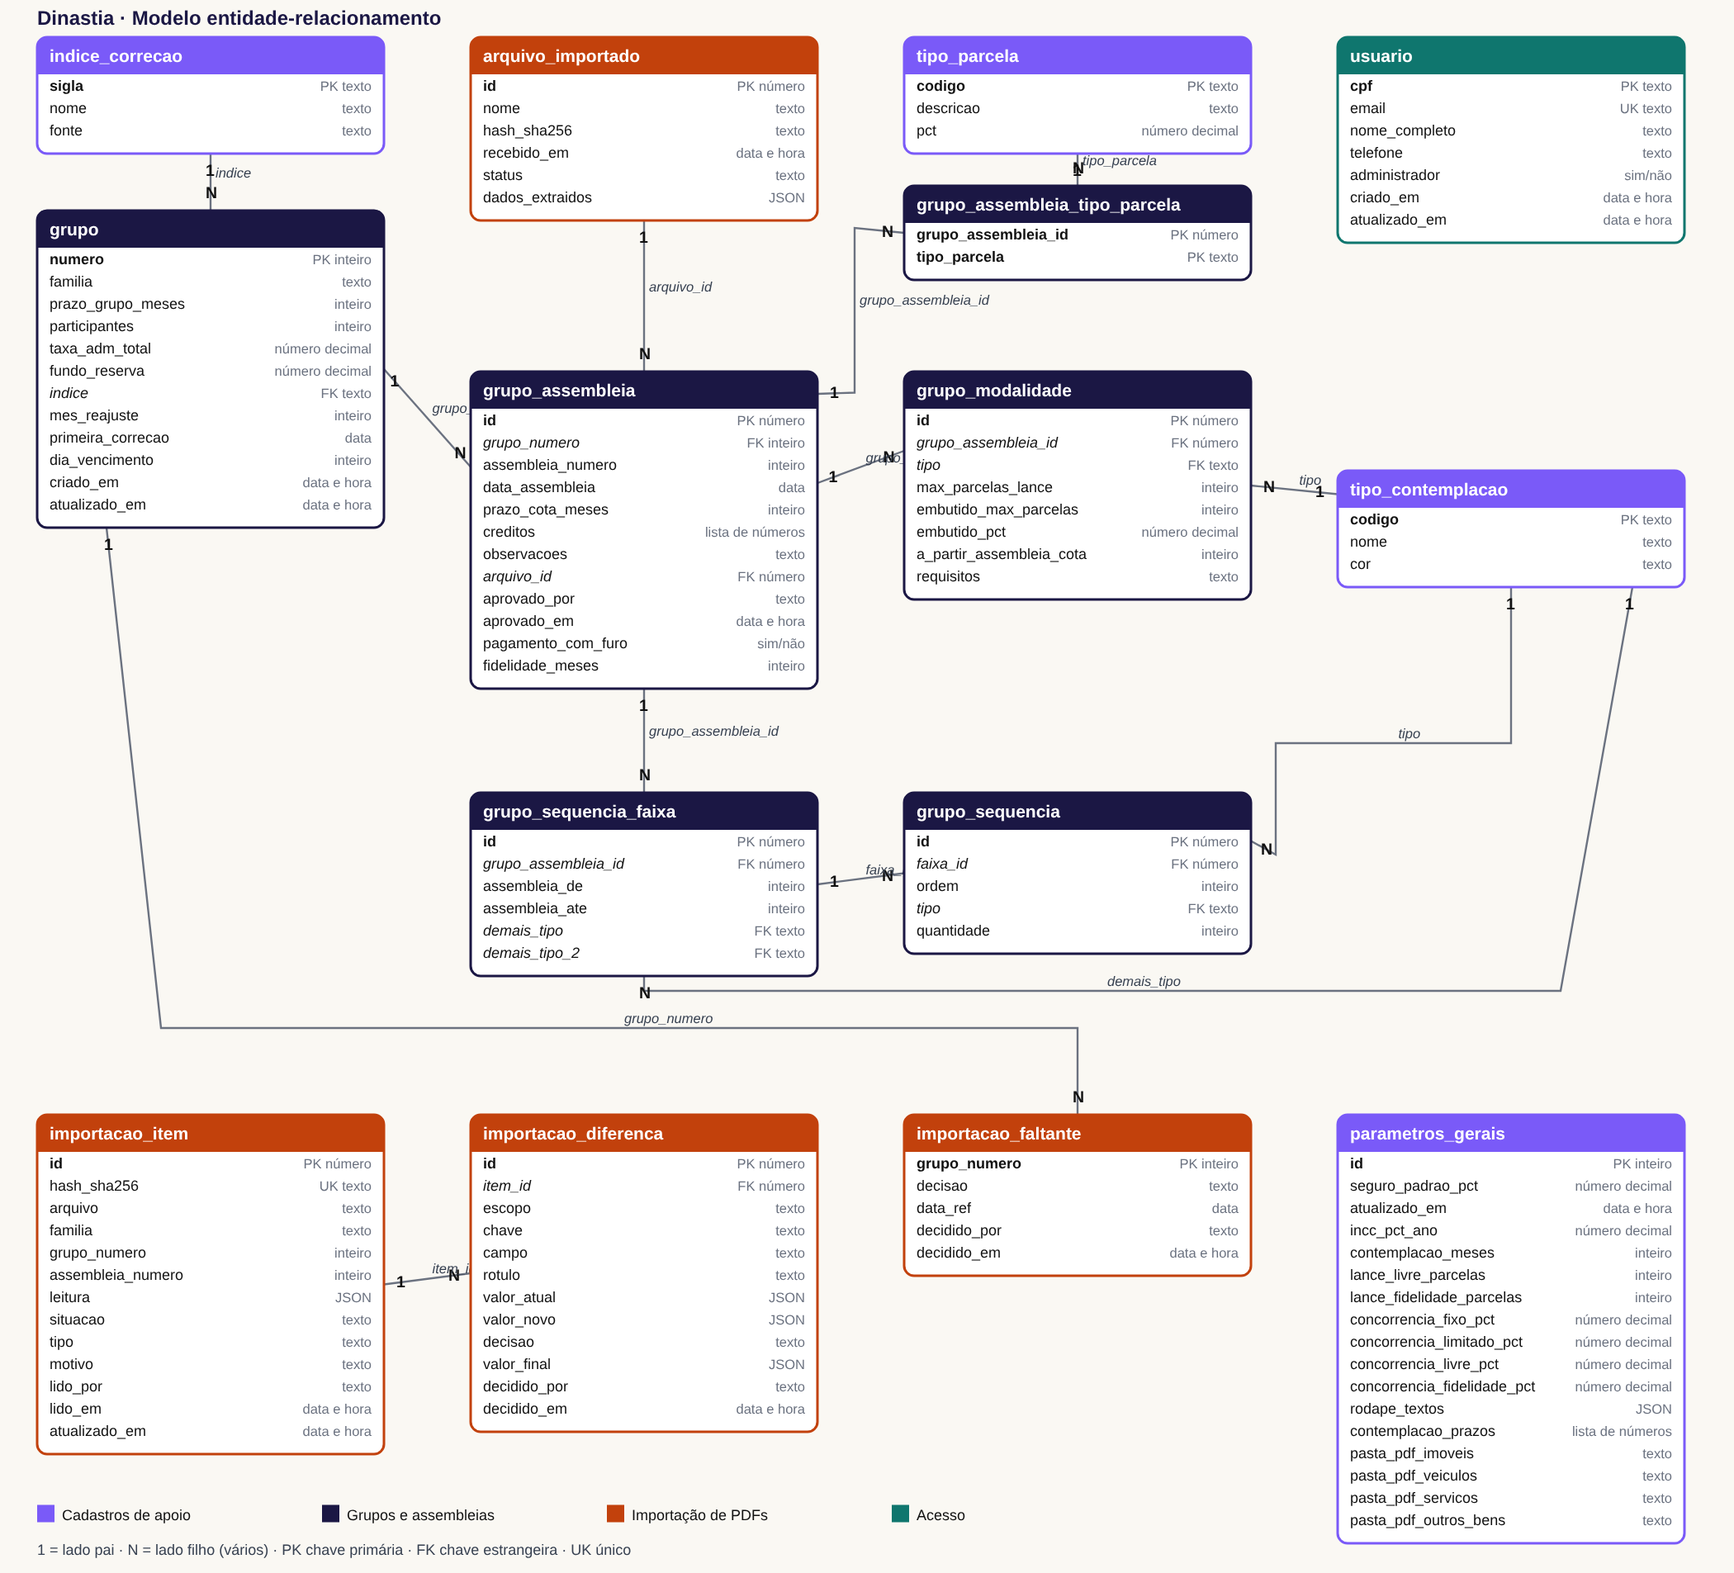
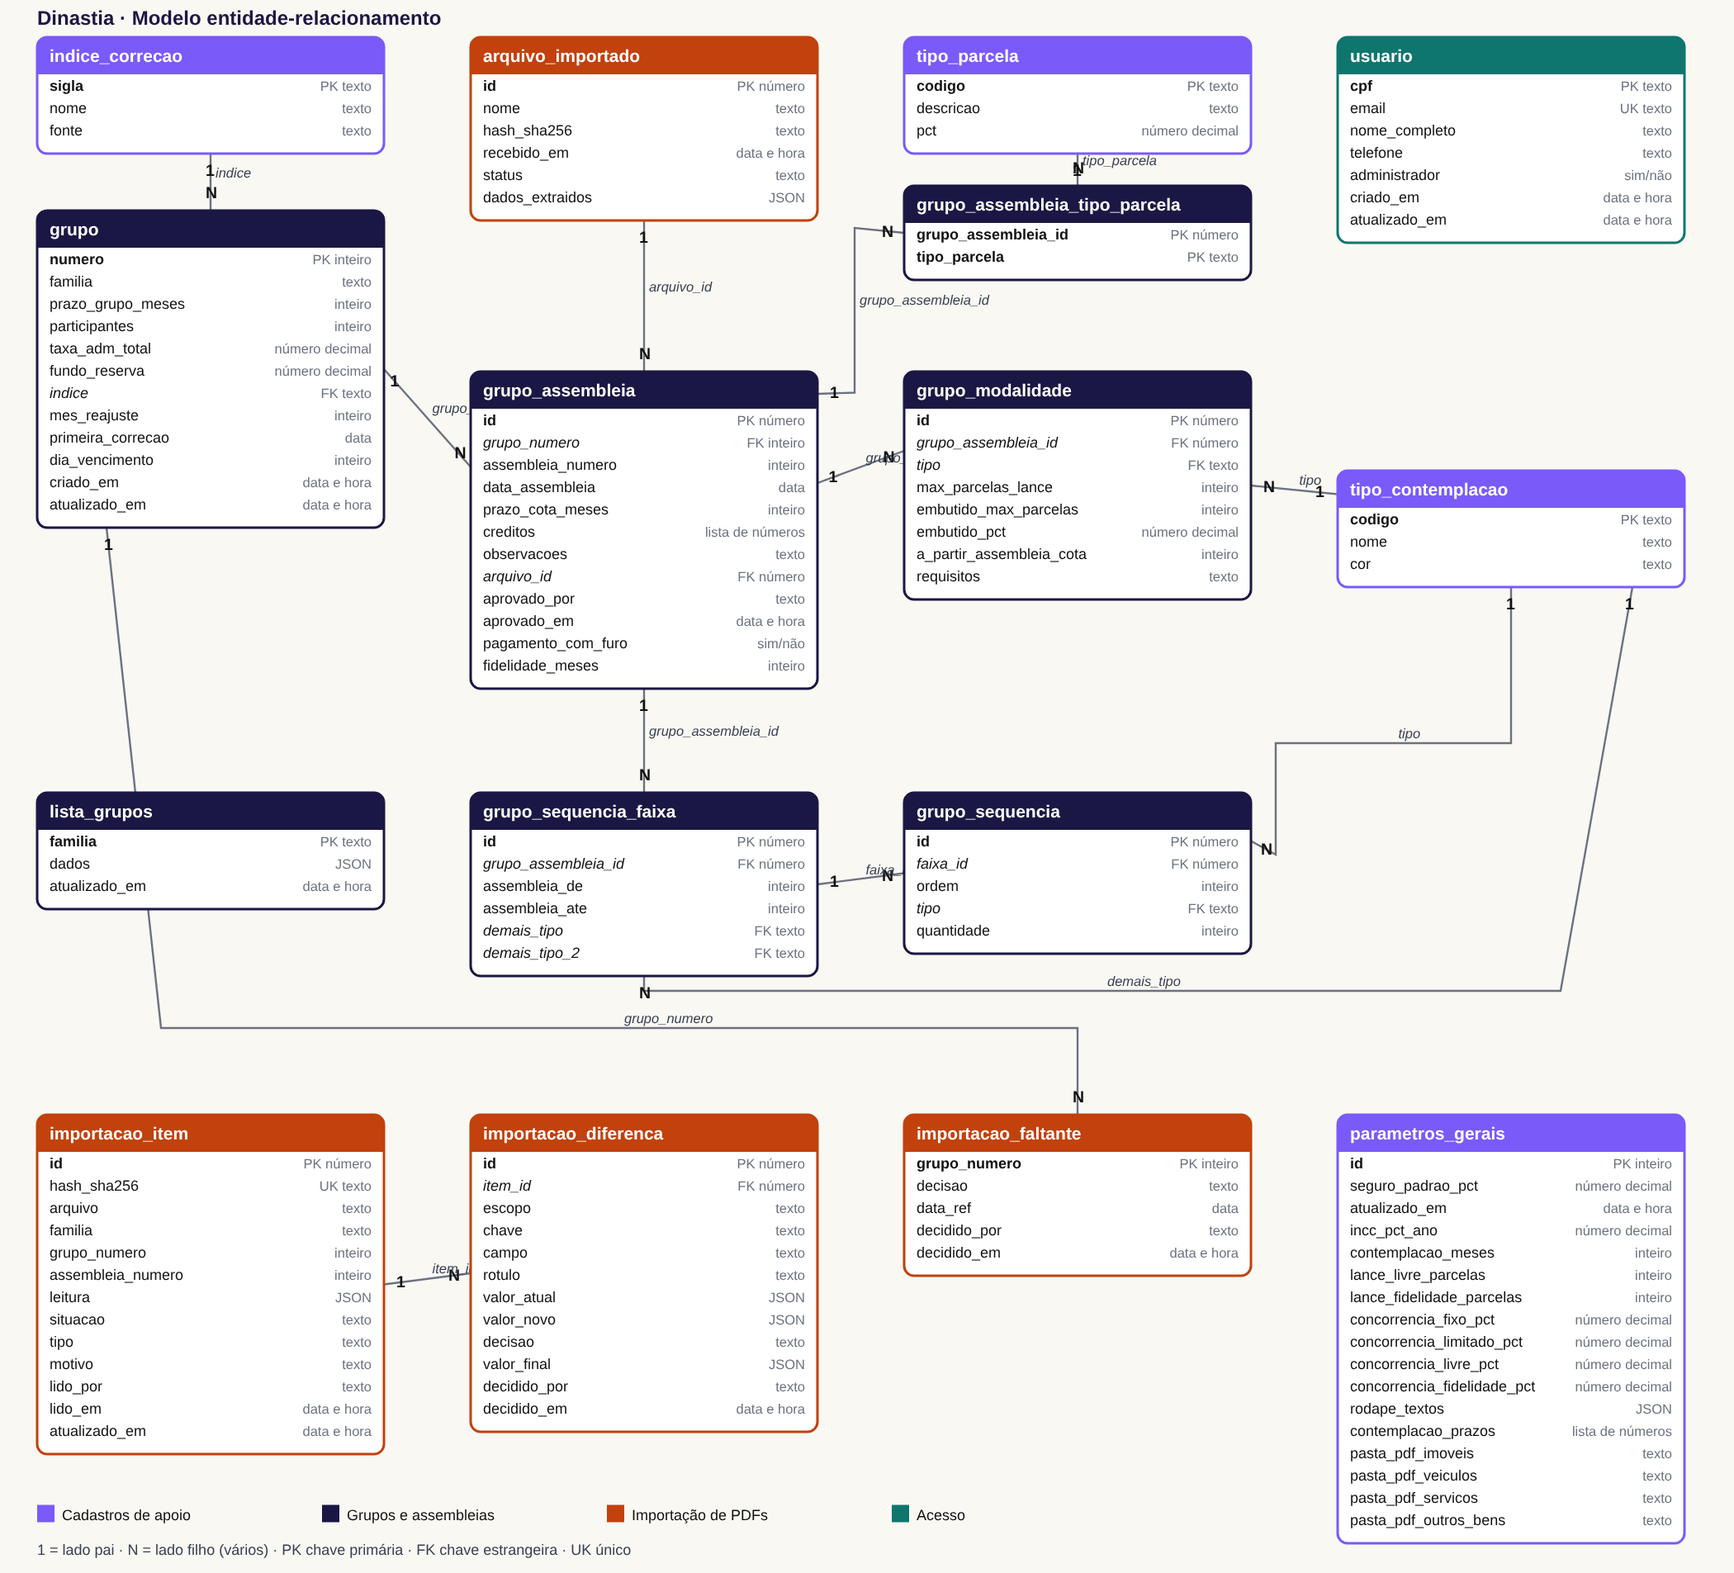
0107: lista de grupos guardada por família e aviso de PDFs desconsiderados (#98)
Claude-Session: https://claude.ai/code/session_018oHb3wWfMrwTyEGJYyGguc

Changed region(s): [[0.0, 0.4955, 0.2476, 0.5885]]

diff --git a/src/app/(app)/importar/LeituraPdfs.tsx b/src/app/(app)/importar/LeituraPdfs.tsx
@@ -26,7 +26,7 @@ export function LeituraPdfs({ rotulo, caminho, chave }: { rotulo: string; caminh
   const router = useRouter();
   const entrada = useRef<HTMLInputElement>(null);
   const [estado, setEstado] = useState<{ fase: string; feito: number; total: number } | null>(null);
-  const [resumo, setResumo] = useState<{ pdfs: number; variacoes: number; duplicados: number; jaLidos: number; r: ResumoLote; ilegiveis: string[] } | null>(null);
+  const [resumo, setResumo] = useState<{ pdfs: number; variacoes: number; duplicados: number; jaLidos: number; r: ResumoLote; ilegiveis: string[]; desconsiderados: { arquivo: string; motivo: string }[] } | null>(null);
   const [erro, setErro] = useState("");
   const ocupado = estado !== null;
   const [guardada, setGuardada] = useState<PastaHandle | null>(null);
@@ -103,6 +103,7 @@ export function LeituraPdfs({ rotulo, caminho, chave }: { rotulo: string; caminh
       const total: ResumoLote = { ...VAZIO };
       let leituras: Leitura[] = [];
       let falhas: { arquivo: string; hash: string; motivo: string }[] = [];
+      const desconsiderados: { arquivo: string; motivo: string }[] = []; // PDFs que o leitor não conseguiu interpretar
       const enviar = async () => {
         if (!leituras.length && !falhas.length) return;
         const r = await registrarLeituras(leituras, falhas);
@@ -117,9 +118,13 @@ export function LeituraPdfs({ rotulo, caminho, chave }: { rotulo: string; caminh
         const { file, dados } = unicos.get(novos[i])!;
         try {
           const linhas = await extrairLinhas(pdfjs, new Uint8Array(dados.slice(0)));
-          leituras.push(interpretar(linhas, file.name, novos[i]));
+          const lida = interpretar(linhas, file.name, novos[i]);
+          leituras.push(lida);
+          if (lida.erros.length) desconsiderados.push({ arquivo: file.name, motivo: lida.erros[0] });
         } catch (e) {
-          falhas.push({ arquivo: file.name, hash: novos[i], motivo: (e as Error).message || "não foi possível ler o PDF" });
+          const motivo = (e as Error).message || "não foi possível ler o PDF";
+          falhas.push({ arquivo: file.name, hash: novos[i], motivo });
+          desconsiderados.push({ arquivo: file.name, motivo });
         }
         if (leituras.length + falhas.length >= LOTE) {
           setEstado({ fase: "Comparando com a base", feito: i + 1, total: novos.length });
@@ -128,7 +133,7 @@ export function LeituraPdfs({ rotulo, caminho, chave }: { rotulo: string; caminh
       }
       setEstado({ fase: "Comparando com a base", feito: novos.length, total: novos.length });
       await enviar();
-      setResumo({ pdfs: pdfs.length, variacoes, duplicados, jaLidos: unicos.size - novos.length, r: total, ilegiveis });
+      setResumo({ pdfs: pdfs.length, variacoes, duplicados, jaLidos: unicos.size - novos.length, r: total, ilegiveis, desconsiderados });
       router.refresh();
     } catch (e) {
       setErro((e as Error).message || "Não foi possível concluir a leitura.");
@@ -193,6 +198,21 @@ export function LeituraPdfs({ rotulo, caminho, chave }: { rotulo: string; caminh
             </span>
           )}
         </p>
+      )}
+      {resumo && resumo.desconsiderados.length > 0 && (
+        <div role="alert" className="rounded-lg bg-[#fbe4e4] px-3 py-2 text-xs text-[#9b1c1c]">
+          <strong>
+            {resumo.desconsiderados.length} {resumo.desconsiderados.length === 1 ? "PDF foi desconsiderado" : "PDFs foram desconsiderados"} (o leitor não reconheceu o formato):
+          </strong>
+          <ul className="mt-1 list-disc pl-5">
+            {resumo.desconsiderados.slice(0, 10).map((d) => (
+              <li key={d.arquivo}>
+                {d.arquivo} — {d.motivo}
+              </li>
+            ))}
+          </ul>
+          {resumo.desconsiderados.length > 10 && <span>e mais {resumo.desconsiderados.length - 10}. Veja todos em Erros.</span>}
+        </div>
       )}
     </div>
   );

diff --git a/src/app/(app)/grupos/actions.ts b/src/app/(app)/grupos/actions.ts
@@ -2,6 +2,7 @@
 
 import { revalidatePath } from "next/cache";
 import { createClient } from "@/lib/supabase/server";
+import { refazerListaDaVersao, refazerListaDoGrupo } from "@/lib/listaGrupos";
 import { ehAdministrador } from "@/lib/usuario";
 import { lerInt, lerPct } from "@/lib/formato";
 import { gerarFaixas, validarEdicao, type Edicao } from "@/lib/sequencia";
@@ -46,6 +47,7 @@ export async function salvarCampoGrupo(numero: number, campo: CampoGrupo, valor:
   const supabase = await createClient();
   const { error } = await supabase.from("grupo").update({ [campo]: novo }).eq("numero", numero);
   if (error) return { ok: false, erro: "Não foi possível salvar. Tente de novo." };
+  await refazerListaDoGrupo(supabase, numero);
   revalidatePath("/grupos");
   return { ok: true };
 }
@@ -60,6 +62,7 @@ export async function alternarTipoParcela(versaoId: number, tipo: string, marcad
         .upsert({ grupo_assembleia_id: versaoId, tipo_parcela: tipo }, { onConflict: "grupo_assembleia_id,tipo_parcela" })
     : await supabase.from("grupo_assembleia_tipo_parcela").delete().eq("grupo_assembleia_id", versaoId).eq("tipo_parcela", tipo);
   if (error) return { ok: false };
+  await refazerListaDaVersao(supabase, versaoId);
   revalidatePath("/grupos");
   return { ok: true };
 }
@@ -70,6 +73,7 @@ export async function definirPagamentoComFuro(versaoId: number, valor: boolean):
   const supabase = await createClient();
   const { error } = await supabase.from("grupo_assembleia").update({ pagamento_com_furo: valor }).eq("id", versaoId);
   if (error) return { ok: false };
+  await refazerListaDaVersao(supabase, versaoId);
   revalidatePath("/grupos");
   return { ok: true };
 }
@@ -119,6 +123,7 @@ export async function salvarSequencia(versaoId: number, entrada: Edicao): Promis
   const r2 = await supabase.from("grupo_assembleia").update({ fidelidade_meses: e.fidelidadeMeses }).eq("id", versaoId);
   if (r2.error) return FALHA;
 
+  await refazerListaDaVersao(supabase, versaoId);
   revalidatePath("/grupos");
   return { ok: true };
 }
@@ -138,6 +143,7 @@ export async function salvarCreditos(versaoId: number, valores: number[]): Promi
     .update({ creditos: [...lista].sort((a, b) => b - a) })
     .eq("id", versaoId);
   if (error) return FALHA;
+  await refazerListaDaVersao(supabase, versaoId);
   revalidatePath("/grupos");
   return { ok: true };
 }

diff --git a/src/lib/listaGrupos.ts b/src/lib/listaGrupos.ts
@@ -1,0 +1,38 @@
+import "server-only";
+import type { SupabaseClient } from "@supabase/supabase-js";
+import { createClient } from "@/lib/supabase/server";
+import { FAMILIAS, listarGrupos, type GrupoResumo } from "@/lib/grupos";
+
+// A lista de grupos de cada família (a do seletor de Grupos e Tabelas) é guardada pronta na tabela lista_grupos:
+// montá-la a cada troca de grupo era a parte mais lenta da tela. Ela é refeita quando a importação é aplicada
+// (e quando um grupo é editado na tela, para a lista não ficar com dado velho).
+
+/** Lê a lista da família; se ainda não existe, monta e guarda (só administrador grava). */
+export async function listaDaFamilia(familia: string): Promise<GrupoResumo[]> {
+  const supabase = await createClient();
+  const { data } = await supabase.from("lista_grupos").select("dados").eq("familia", familia).maybeSingle();
+  if (data?.dados) return data.dados as GrupoResumo[];
+  return refazerLista(supabase, familia);
+}
+
+/** Monta a lista da família e a guarda. Uma falha ao guardar não impede de mostrar a lista. */
+export async function refazerLista(supabase: SupabaseClient, familia: string): Promise<GrupoResumo[]> {
+  const grupos = await listarGrupos(familia);
+  await supabase.from("lista_grupos").upsert({ familia, dados: grupos, atualizado_em: new Date().toISOString() }, { onConflict: "familia" });
+  return grupos;
+}
+
+export async function refazerTodasAsListas(supabase: SupabaseClient) {
+  await Promise.all(FAMILIAS.map((f) => refazerLista(supabase, f.slug)));
+}
+
+/** Refaz a lista da família do grupo (usado nas edições feitas na tela do grupo). */
+export async function refazerListaDoGrupo(supabase: SupabaseClient, numero: number) {
+  const { data } = await supabase.from("grupo").select("familia").eq("numero", numero).maybeSingle();
+  if (data?.familia) await refazerLista(supabase, data.familia as string);
+}
+
+export async function refazerListaDaVersao(supabase: SupabaseClient, versaoId: number) {
+  const { data } = await supabase.from("grupo_assembleia").select("grupo_numero").eq("id", versaoId).maybeSingle();
+  if (data?.grupo_numero) await refazerListaDoGrupo(supabase, data.grupo_numero as number);
+}

diff --git a/src/app/(app)/grupos/page.tsx b/src/app/(app)/grupos/page.tsx
@@ -1,6 +1,7 @@
 import type { Metadata } from "next";
 import { Suspense } from "react";
-import { FAMILIAS, carregarGrupo, carregarPadroesSimulador, contarPorFamilia, listarCoresContemplacao, listarGrupos, listarIndices, nomeFamilia } from "@/lib/grupos";
+import { FAMILIAS, carregarGrupo, carregarPadroesSimulador, contarPorFamilia, listarCoresContemplacao, listarIndices, nomeFamilia } from "@/lib/grupos";
+import { listaDaFamilia } from "@/lib/listaGrupos";
 import { padroesDeLinha } from "@/lib/simulacao";
 import { ehAdministrador } from "@/lib/usuario";
 import { Cabecalho } from "./Cabecalho";
@@ -27,7 +28,7 @@ async function Conteudo({ searchParams }: { searchParams: PageProps<"/grupos">["
   // Os links da tela sempre levam a família na URL; sem ela, a lista precisa esperar o grupo para saber qual é.
   const [detalhe, gruposPedida, cores, contagem, indices, padroes, admin] = await Promise.all([
     numeroGrupo ? carregarGrupo(numeroGrupo) : Promise.resolve(null),
-    pedida ? listarGrupos(pedida.slug) : Promise.resolve(null),
+    pedida ? listaDaFamilia(pedida.slug) : Promise.resolve(null),
     listarCoresContemplacao(),
     contarPorFamilia(),
     numeroGrupo ? listarIndices() : Promise.resolve([]),
@@ -36,7 +37,7 @@ async function Conteudo({ searchParams }: { searchParams: PageProps<"/grupos">["
   ]);
   // sem família na URL, a lista mostra a família do grupo aberto
   const familia = pedida ?? FAMILIAS.find((f) => f.slug === detalhe?.familia) ?? FAMILIAS[0];
-  const grupos = gruposPedida ?? (await listarGrupos(familia.slug));
+  const grupos = gruposPedida ?? (await listaDaFamilia(familia.slug));
   const hoje = new Date().toISOString().slice(0, 10);
 
   const seletor = (

diff --git a/src/app/(app)/importar/actions.ts b/src/app/(app)/importar/actions.ts
@@ -2,6 +2,7 @@
 
 import { revalidatePath } from "next/cache";
 import { createClient } from "@/lib/supabase/server";
+import { refazerTodasAsListas } from "@/lib/listaGrupos";
 import { ehAdministrador, usuarioAtual } from "@/lib/usuario";
 import { carregarEstados } from "@/lib/pdf/estado";
 import { calcularFaltantes, montarSalto } from "@/lib/pdf/faltantes";
@@ -284,6 +285,7 @@ export async function aplicarSaltos(grupos: number[]): Promise<{ ok: true; aplic
     await supabase.from("importacao_faltante").delete().eq("grupo_numero", g);
     aplicados++;
   }
+  if (aplicados > 0) await refazerTodasAsListas(supabase); // a lista de grupos só muda aqui
   revalidatePath("/importar");
   revalidatePath("/grupos");
   return { ok: true, aplicados, falhas };
@@ -338,6 +340,7 @@ export async function aplicarItens(ids: number[]): Promise<{ ok: true; aplicados
     if ("erro" in r) falhas.push({ arquivo: item.arquivo, motivo: r.erro });
     else if (!r.rejeitado) aplicados++;
   }
+  if (aplicados > 0) await refazerTodasAsListas(supabase); // a lista de grupos só muda aqui
   revalidatePath("/importar");
   revalidatePath("/grupos");
   return { ok: true, aplicados, falhas };

diff --git a/src/lib/dicionarioDados.ts b/src/lib/dicionarioDados.ts
@@ -232,6 +232,16 @@ export const DICIONARIO: TabelaDic[] = [
     ],
   },
   {
+    tabela: "lista_grupos",
+    grupo: "Grupos e assembleias",
+    descricao: "Lista de grupos de cada família (a do seletor em Grupos e Tabelas), guardada pronta para a tela abrir rápido. Derivada das demais tabelas: é refeita ao aplicar a importação e ao editar um grupo.",
+    colunas: [
+      t("familia", "texto", true, "Família dos grupos (imoveis, veiculos, servicos, outros_bens).", "PK"),
+      t("dados", "JSON", true, "Lista de grupos da família: número, prazo, assembleia, créditos mínimo e máximo, sequência, participantes, furo e parcelas reduzidas."),
+      t("atualizado_em", "data e hora", true, "Quando a lista foi refeita."),
+    ],
+  },
+  {
     tabela: "usuario",
     grupo: "Acesso",
     descricao: "Quem pode entrar no Dinastia e se é administrador. Contém dados pessoais (CPF, telefone): proteja o arquivo exportado. Tela: Cadastros › Usuários.",

diff --git a/src/lib/versoes.ts b/src/lib/versoes.ts
@@ -2,6 +2,14 @@
 // Regra: a cada mudança entregue, acrescentar uma entrada NO TOPO.
 export const VERSOES: { numero: string; data: string; itens: string[] }[] = [
   {
+    numero: "0107",
+    data: "22/10/2026",
+    itens: [
+      "Grupos e Tabelas: a lista de grupos de cada família passa a ficar guardada pronta (tabela lista_grupos) e a tela só a lê, em vez de montá-la a cada troca de grupo. A lista é refeita quando a importação é aplicada (e também quando um grupo é editado na tela ou um backup é restaurado, para não ficar com dado velho). Na primeira abertura ela é montada e guardada.",
+      "Importação: PDFs que o leitor não reconheceu (por exemplo, o formato antigo do grupo 6102) agora aparecem em destaque, com o nome do arquivo e o motivo, ao final da leitura, e um aviso fixo na tela de decisões enquanto houver PDFs com erro.",
+    ],
+  },
+  {
     numero: "0106",
     data: "22/10/2026",
     itens: [

diff --git a/src/app/(app)/importar/PainelDecisoes.tsx b/src/app/(app)/importar/PainelDecisoes.tsx
@@ -181,6 +181,15 @@ export function PainelDecisoes({
         </p>
       )}
 
+      {contagens.erros > 0 && filtro !== "erros" && (
+        <p role="alert" className="rounded-lg bg-[#fbe4e4] px-3 py-2 text-sm font-semibold text-[#9b1c1c]">
+          {contagens.erros} {contagens.erros === 1 ? "PDF foi desconsiderado" : "PDFs foram desconsiderados"} porque o leitor não conseguiu interpretar.{" "}
+          <Link href="/importar?v=erros" scroll={false} className="underline">
+            Ver quais (Erros)
+          </Link>
+        </p>
+      )}
+
       {agregados.length > 0 && (
         <div className="flex flex-col gap-2 rounded-2xl border border-borda bg-white p-4">
           <h3 className="text-sm font-bold">Decidir em bloco (todas as pendentes de cada tipo)</h3>

diff --git a/src/app/api/backup/route.ts b/src/app/api/backup/route.ts
@@ -1,6 +1,7 @@
 import { NextResponse, type NextRequest } from "next/server";
 import { createClient } from "@/lib/supabase/server";
 import { ehAdministrador } from "@/lib/usuario";
+import { refazerTodasAsListas } from "@/lib/listaGrupos";
 import { exportarBackup, restaurarBackup, validarBackup } from "@/lib/backup";
 
 async function usuario() {
@@ -32,6 +33,7 @@ export async function POST(request: NextRequest) {
     const b = await request.json();
     validarBackup(b);
     const r = await restaurarBackup(supabase, b, user.email ?? "");
+    await refazerTodasAsListas(supabase);
     return NextResponse.json(r);
   } catch (e) {
     return NextResponse.json({ erro: (e as Error).message }, { status: 400 });

diff --git a/src/lib/excel.ts b/src/lib/excel.ts
@@ -25,6 +25,7 @@ export const TABELAS_EXCEL: { tabela: string; ordem: string[] }[] = [
   { tabela: "importacao_item", ordem: ["id"] },
   { tabela: "importacao_diferenca", ordem: ["id"] },
   { tabela: "importacao_faltante", ordem: ["grupo_numero"] },
+  { tabela: "lista_grupos", ordem: ["familia"] },
   { tabela: "usuario", ordem: ["cpf"] },
 ];
 

diff --git a/scripts/gerar_er.py b/scripts/gerar_er.py
@@ -12,7 +12,7 @@ pos={
  'grupo_modalidade':(730,300),'tipo_contemplacao':(1080,380),
  'grupo_sequencia_faixa':(380,640),'grupo_sequencia':(730,640),
  'importacao_item':(30,900),'importacao_diferenca':(380,900),'importacao_faltante':(730,900),
- 'parametros_gerais':(1080,900),'usuario':(1080,30),
+ 'parametros_gerais':(1080,900),'usuario':(1080,30),'lista_grupos':(30,640),
 }
 def alt(t): return HH+len(tb[t]['colunas'])*LH+10
 def box(t):

diff --git a/docs/modelo-de-dados.md b/docs/modelo-de-dados.md
@@ -161,6 +161,11 @@ erDiagram
     string decidido_por
     datetime decidido_em
   }
+  lista_grupos {
+    string familia PK
+    json dados
+    datetime atualizado_em
+  }
   usuario {
     string cpf PK
     string email UK
@@ -337,6 +342,16 @@ Itens de cada faixa: a ordem em que as modalidades contemplam em cada assembleia
 | `ordem` | inteiro | sim |  | Posição do item dentro da faixa. |
 | `tipo` | texto | sim | FK→tipo_contemplacao.codigo | Modalidade que contempla nesta posição. |
 | `quantidade` | inteiro | sim |  | Quantas contemplações dessa modalidade (ex.: 2 sorteios). |
+
+#### `lista_grupos`
+
+Lista de grupos de cada família (a do seletor em Grupos e Tabelas), guardada pronta para a tela abrir rápido. Derivada das demais tabelas: é refeita ao aplicar a importação e ao editar um grupo.
+
+| Campo | Tipo | Obrig. | Chave | Descrição |
+|---|---|---|---|---|
+| `familia` | texto | sim | PK | Família dos grupos (imoveis, veiculos, servicos, outros_bens). |
+| `dados` | JSON | sim |  | Lista de grupos da família: número, prazo, assembleia, créditos mínimo e máximo, sequência, participantes, furo e parcelas reduzidas. |
+| `atualizado_em` | data e hora | sim |  | Quando a lista foi refeita. |
 
 ### Importação de PDFs
 
